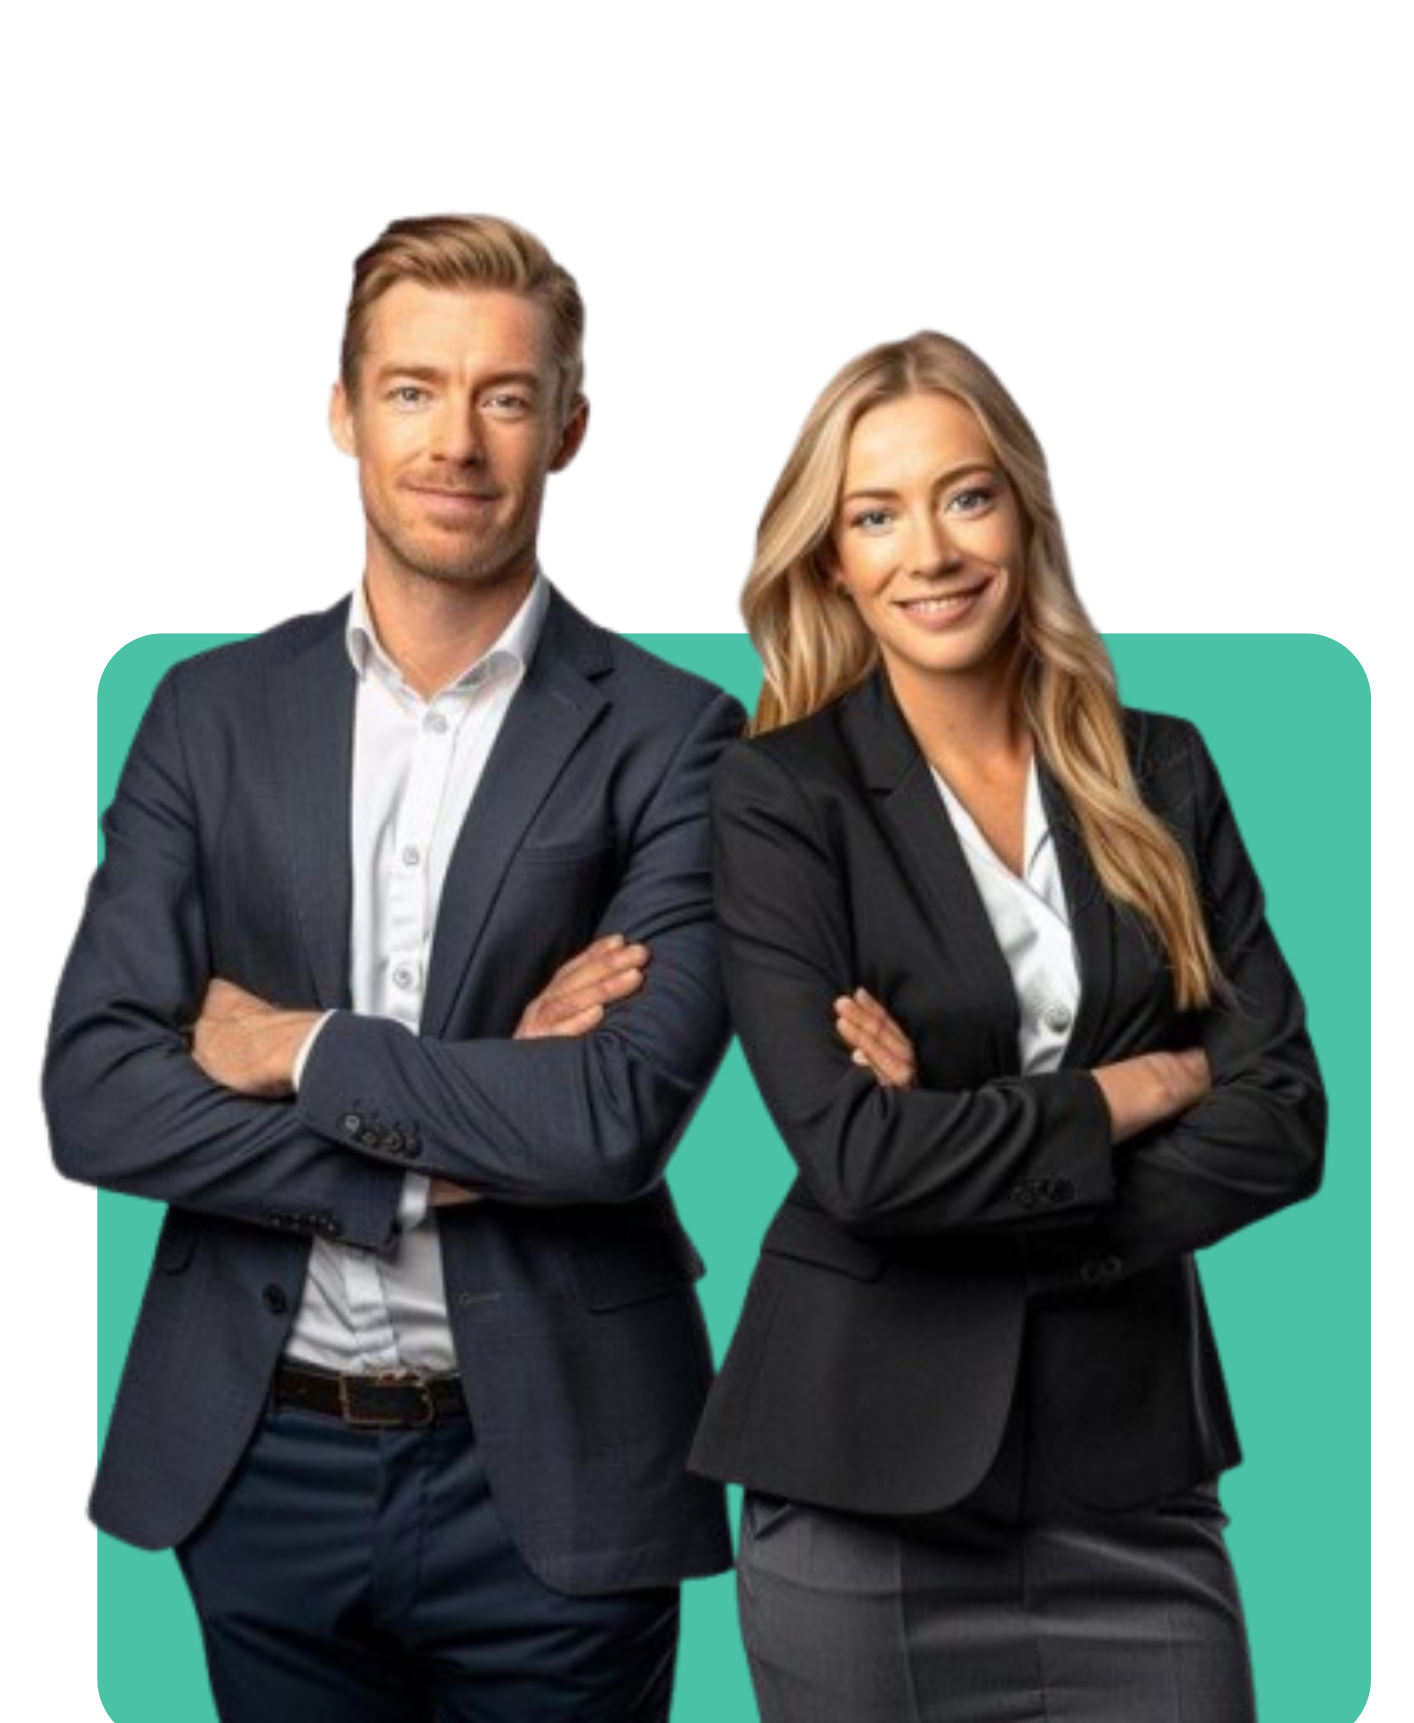
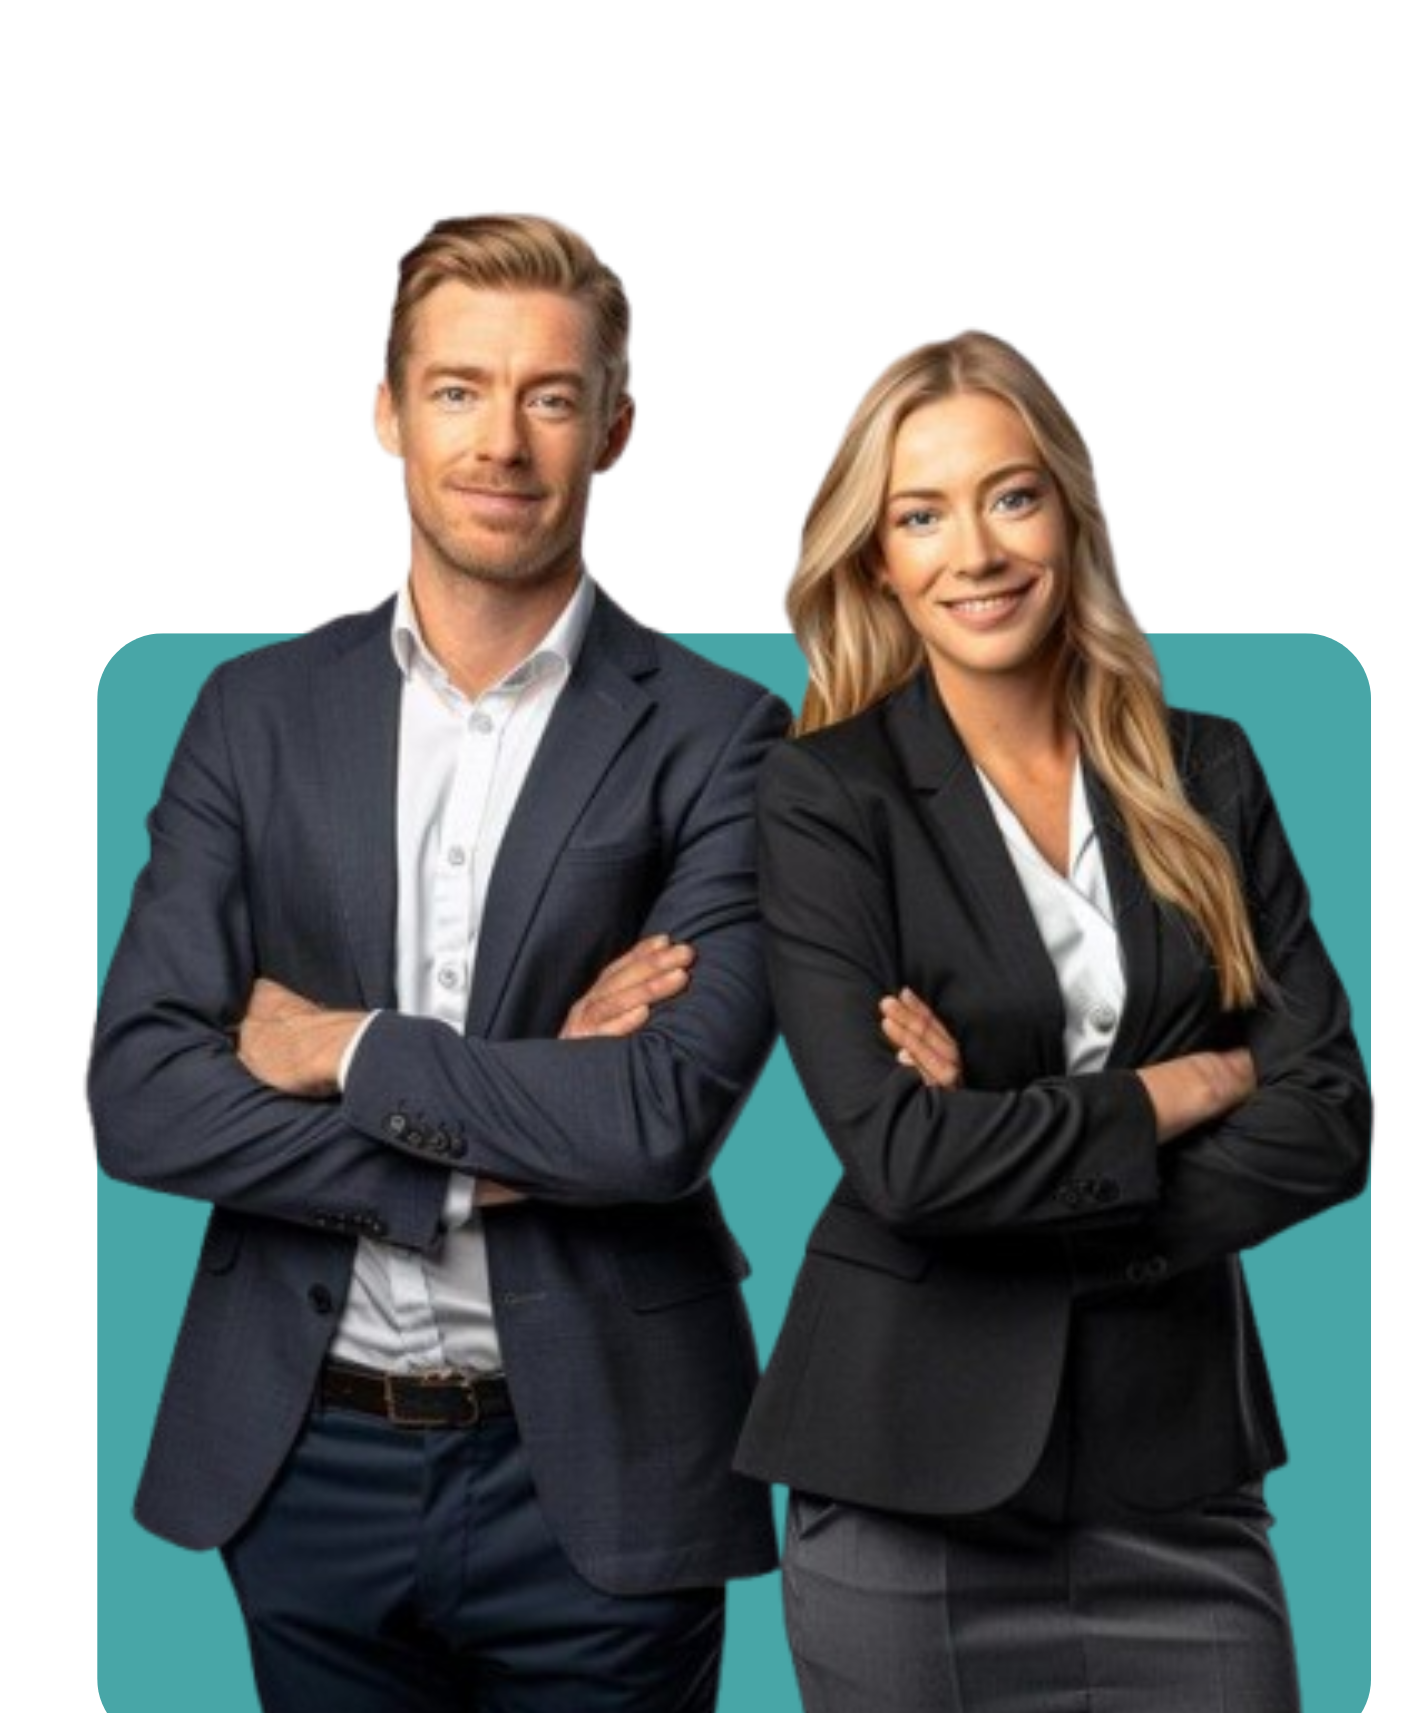
update resetpass page

diff --git a/bingo-bootstrap-main/theme/reset-password.html b/bingo-bootstrap-main/theme/reset-password.html
@@ -24,7 +24,7 @@
     html,body{height:100%;margin:0;background:var(--bg-deep);font-family:Inter, system-ui, -apple-system, 'Segoe UI', Roboto, 'Helvetica Neue', Arial}
 
     .bg-layer{position:fixed;inset:0;z-index:0;overflow:hidden}
-    .bg-gradient{position:absolute;inset:0;background:linear-gradient(135deg,#36acbe 0%, #4dc0a9 30%, #2d9684 60%, #18928a 100%);mix-blend-mode:normal}
+    .bg-gradient{position:absolute;inset:0;background:linear-gradient(135deg,#52d0e3 0%, #48A6A7 30%, #4d9b9d 60%, #3c8e8f 100%);mix-blend-mode:normal}
     .svg-geo{position:absolute;inset:0;opacity:0.18;filter:drop-shadow(0 6px 20px rgba(12, 123, 122, 0.6));transform:translateZ(0)}
     canvas#particles{position:absolute;inset:0;z-index:1}
 
